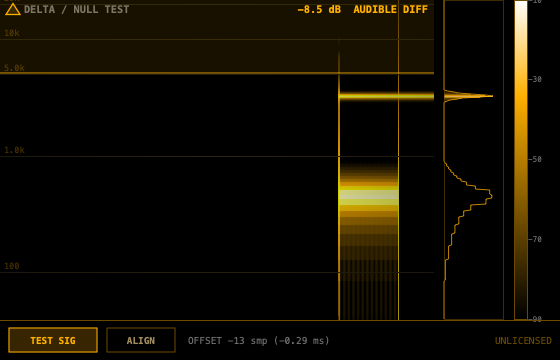
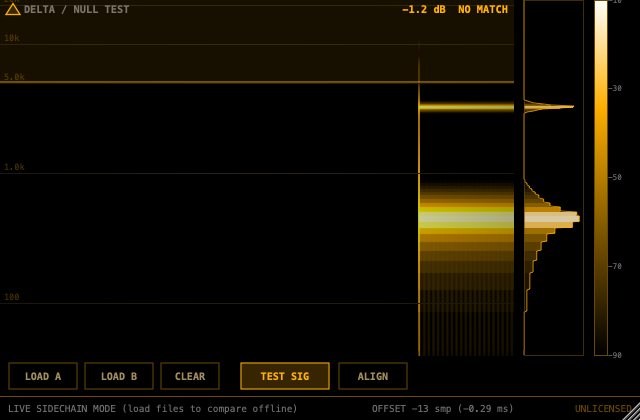
Bump version to 0.2.0 (background alignment, resizable UI, file comparison)

diff --git a/README.md b/README.md
@@ -14,7 +14,7 @@ Built with [JUCE](https://juce.com/), ships as VST3 / AU / Standalone on macOS
 and Windows.
 
 <p align="center">
-  <img src="assets/screenshot.png" alt="Delta plugin UI">
+  <img src="assets/screenshot.png?v=2" alt="Delta plugin UI">
 </p>
 
 <p align="center">